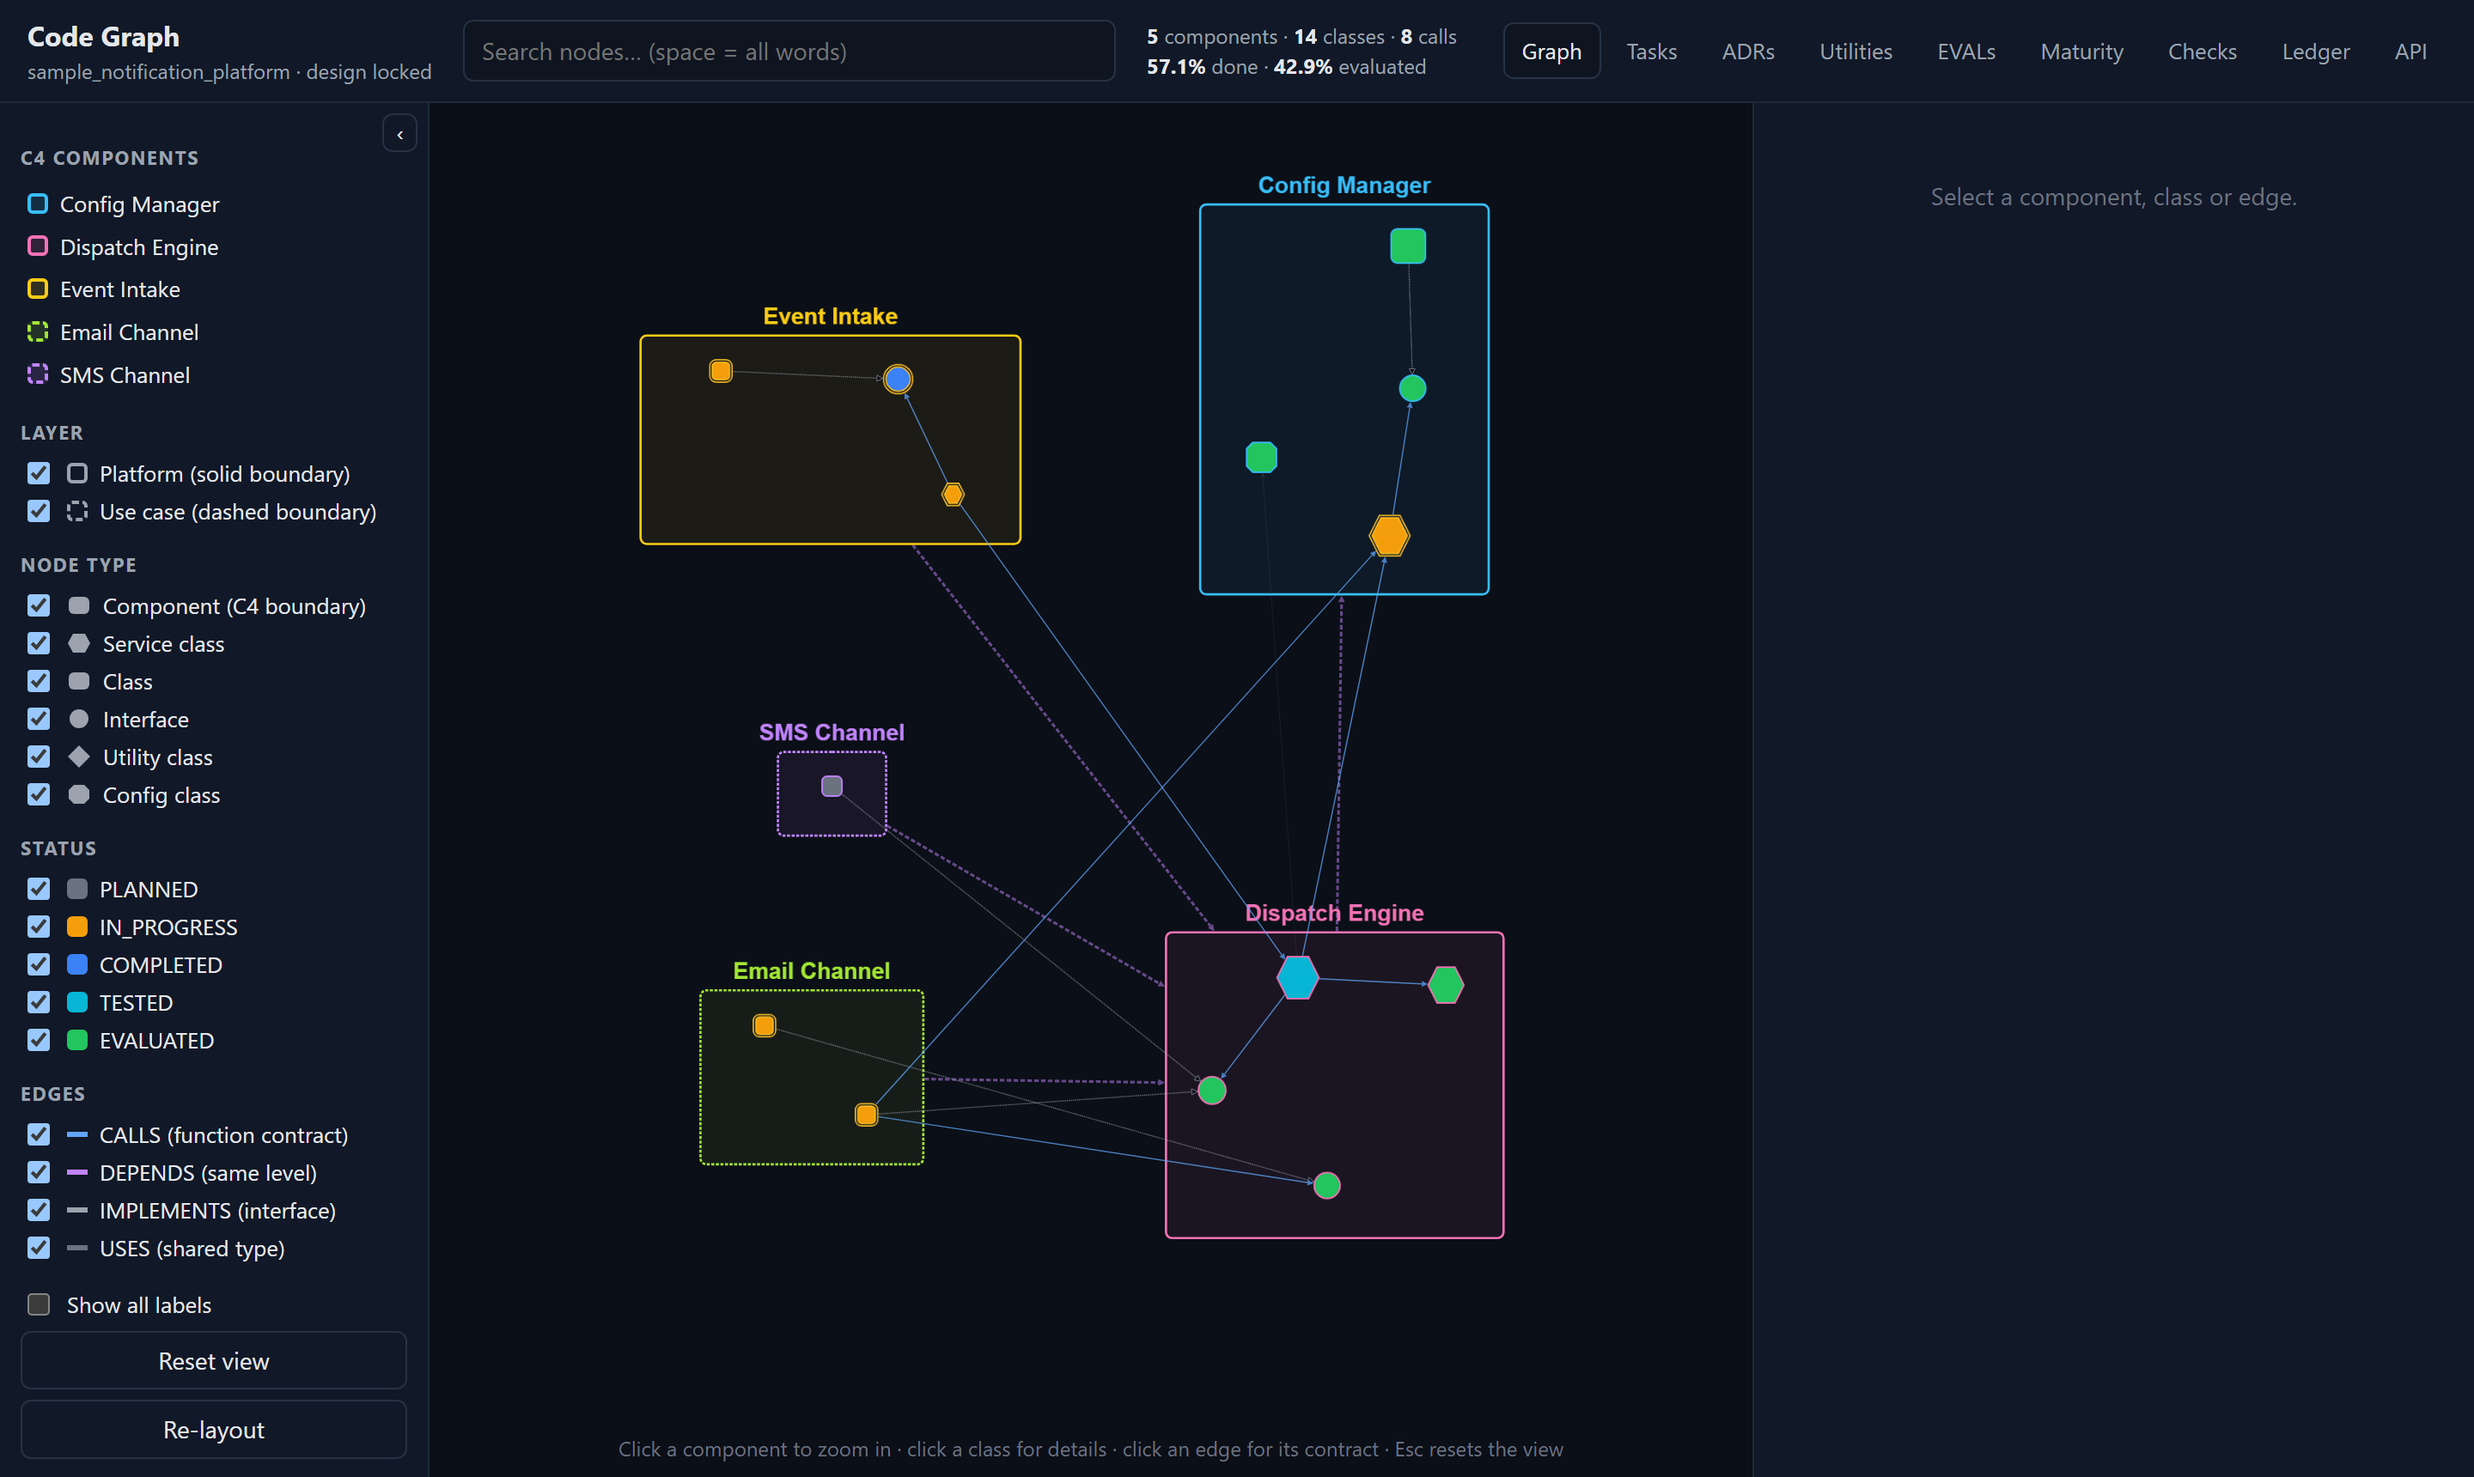
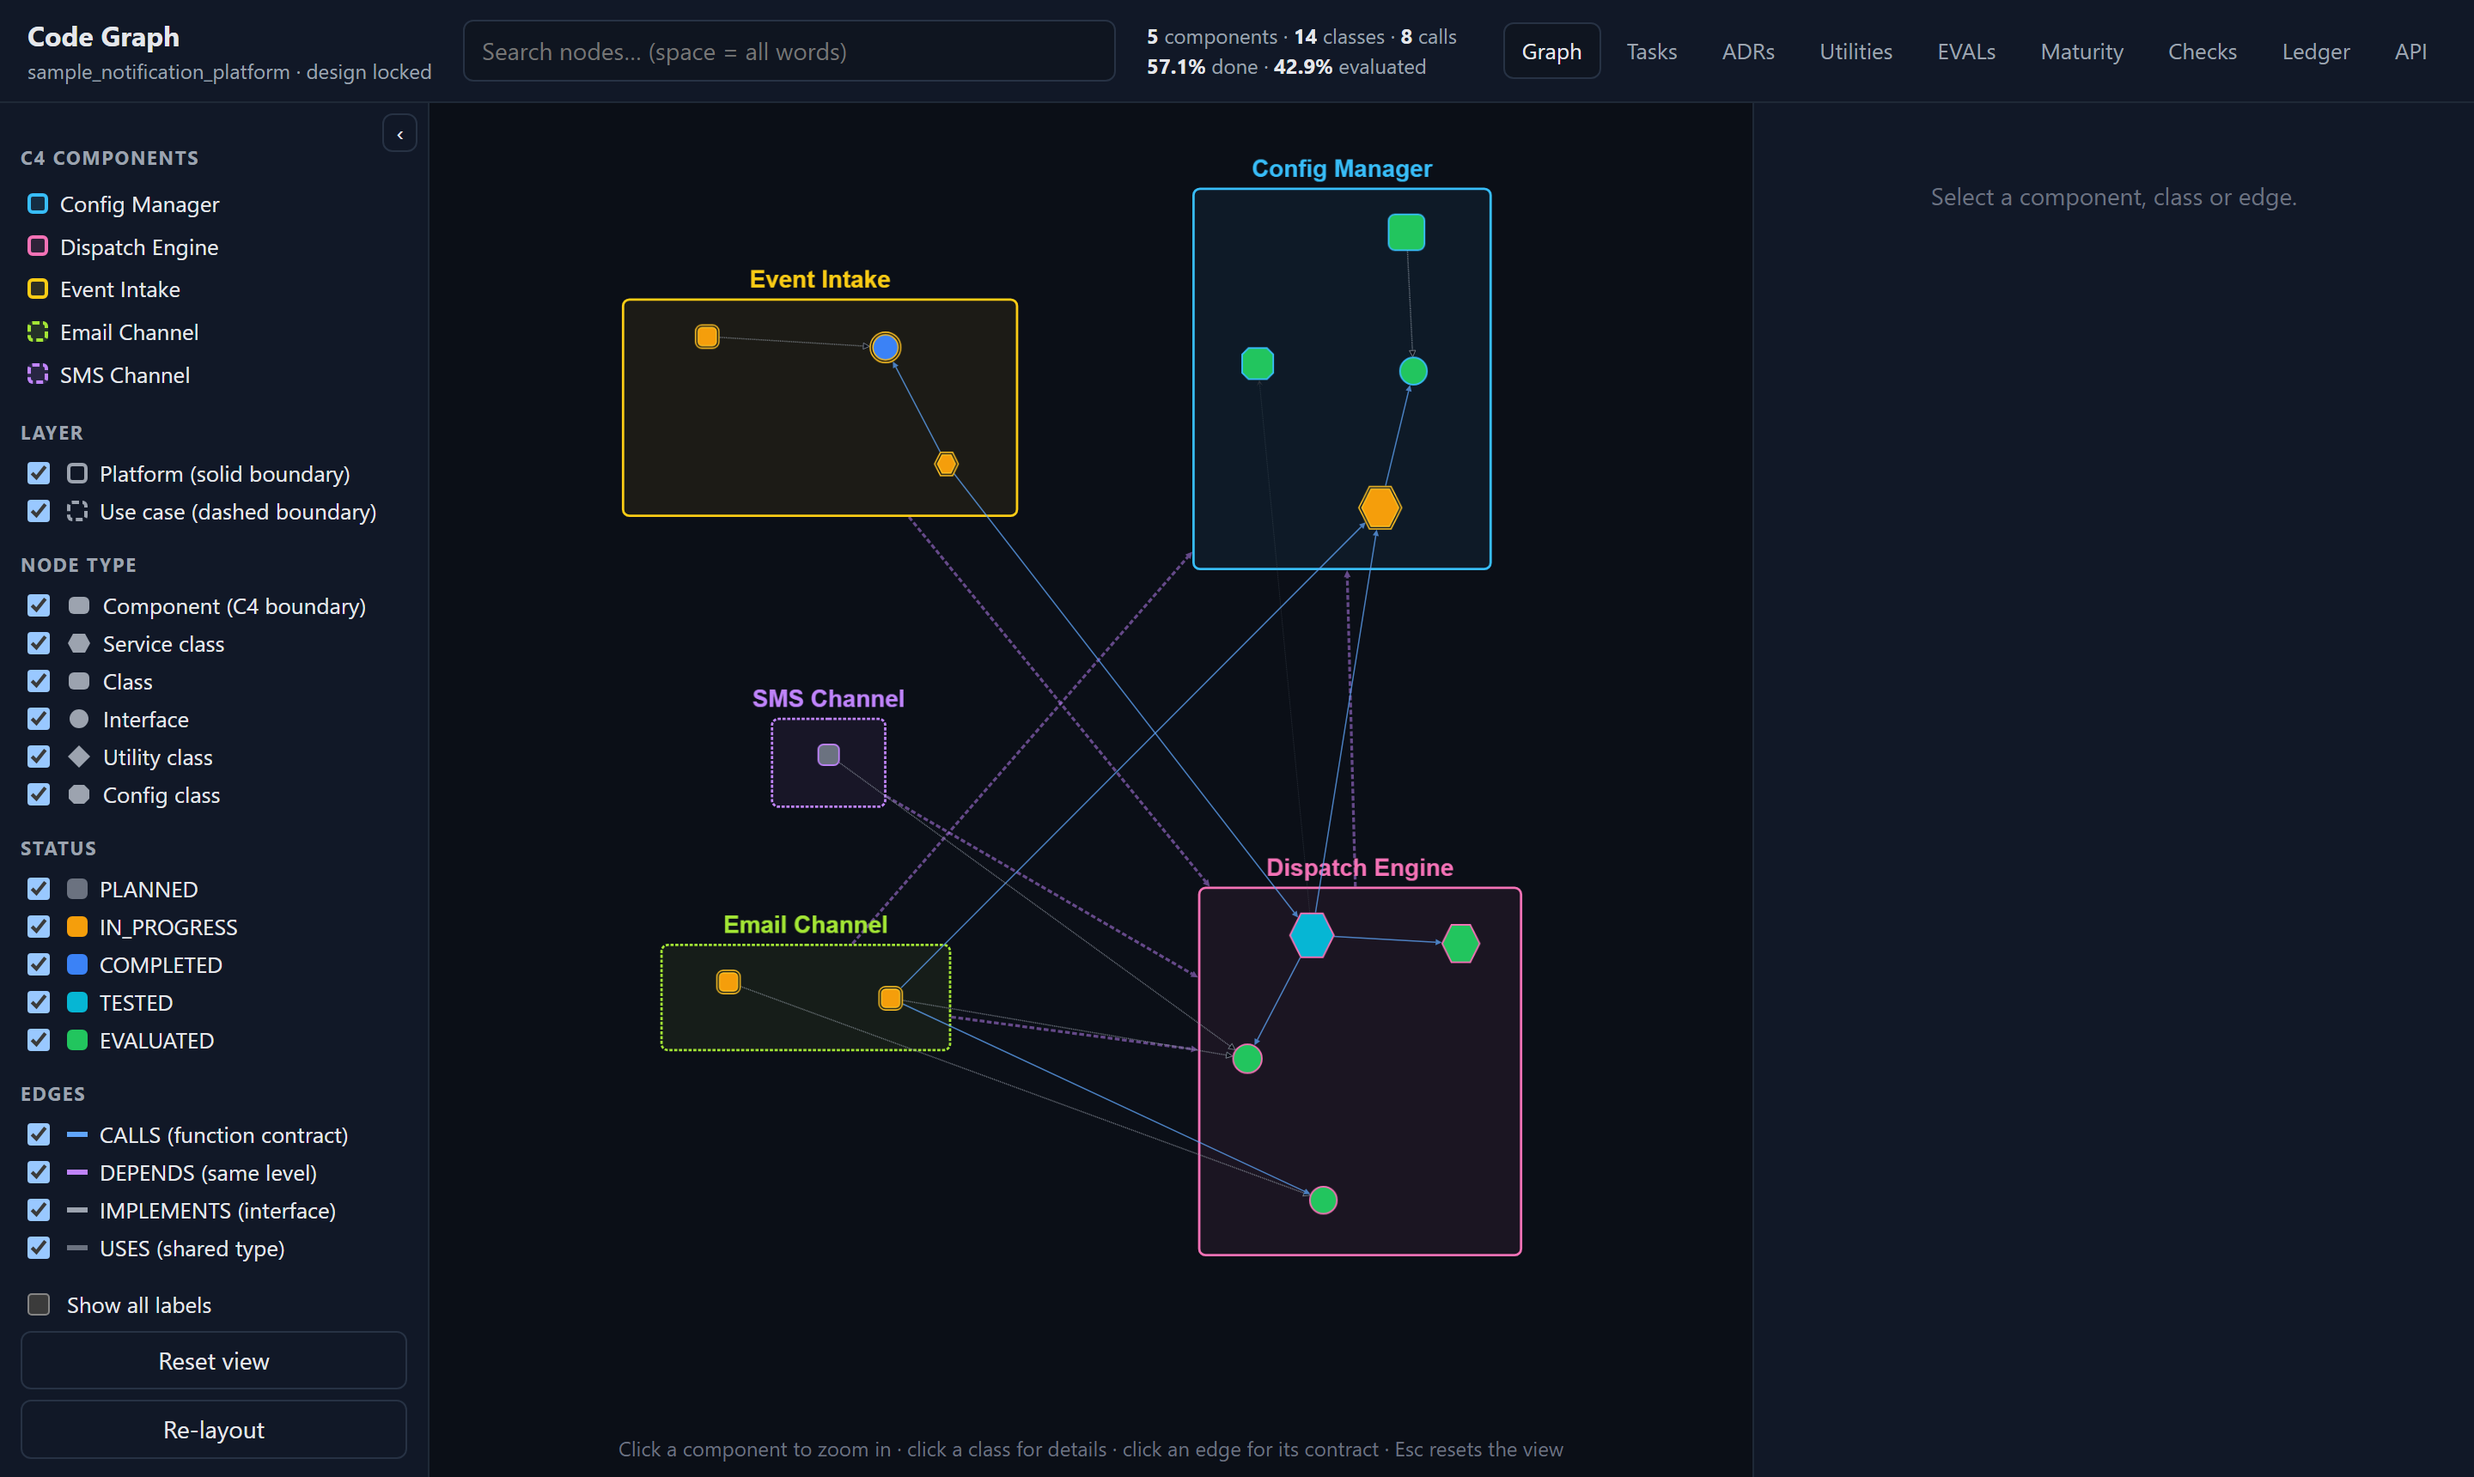
Demo: declare the email_channel -> config_manager dependency under ADR-0001
The demo added the cross-component get_templates call without the matching
component DEPENDS edge, so cg check reported a G03 warning on a fresh run.

diff --git a/code_graph_tool/examples/demo.py b/code_graph_tool/examples/demo.py
@@ -152,12 +152,14 @@ def run(db_path: Path) -> None:
                       actor="coder-4", task_id=t5)
     adr = svc.propose_adr("Expose message templates on ConfigLibrary", nodes="config_manager.config_library", actor="coder-4",
                           context="The email channel needs per-channel templates; ConfigLibrary is EVALUATED and has no such function.",
-                          decision="Add get_templates(channel_id) -> list[Template] to ConfigLibrary; templates are a config group.",
+                          decision="Add get_templates(channel_id) -> list[Template] to ConfigLibrary (templates are a config group); "
+                                   "email_channel declares a dependency on config_manager.",
                           consequences=f"Callee changes; impacted: {[i.get('callee') or i.get('caller') for i in details['impacted']]}.")["id"]
     svc.block_task(t5, f"{adr}: needs get_templates on ConfigLibrary", actor="coder-4")
     svc.decide_adr(adr, "ACCEPTED", note="Additive, inside the approved design.", actor=ORCH)
     svc.upsert_edge("CALLS", "email_channel.email_sender", "config_manager.config_library", function_name="get_templates",
                     signature=sig, purpose="Load message templates.", actor="coder-4", task_id=t5, adr_id=adr)
+    svc.upsert_edge("DEPENDS", "email_channel", "config_manager", actor=ORCH, adr_id=adr)
     svc.start_task(t5, agent="coder-4", actor="coder-4")
     t6 = svc.create_task("Add get_templates to ConfigLibrary", nodes="config_manager.config_library", agent="coder-1",
                          adr_id=adr, actor=ORCH, description=f"Implement {sig} under {adr}.")["id"]
